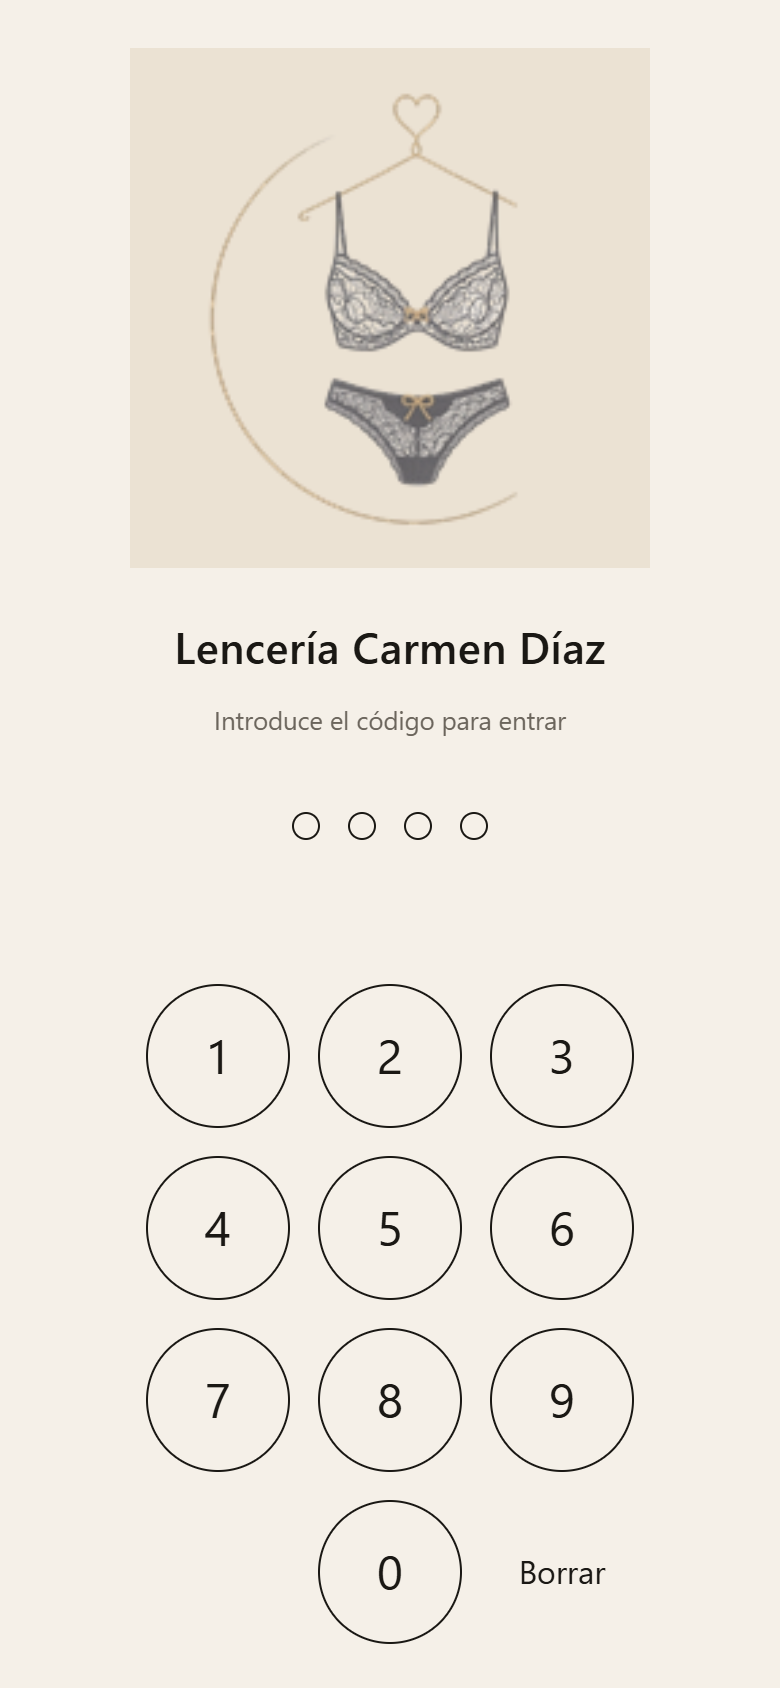
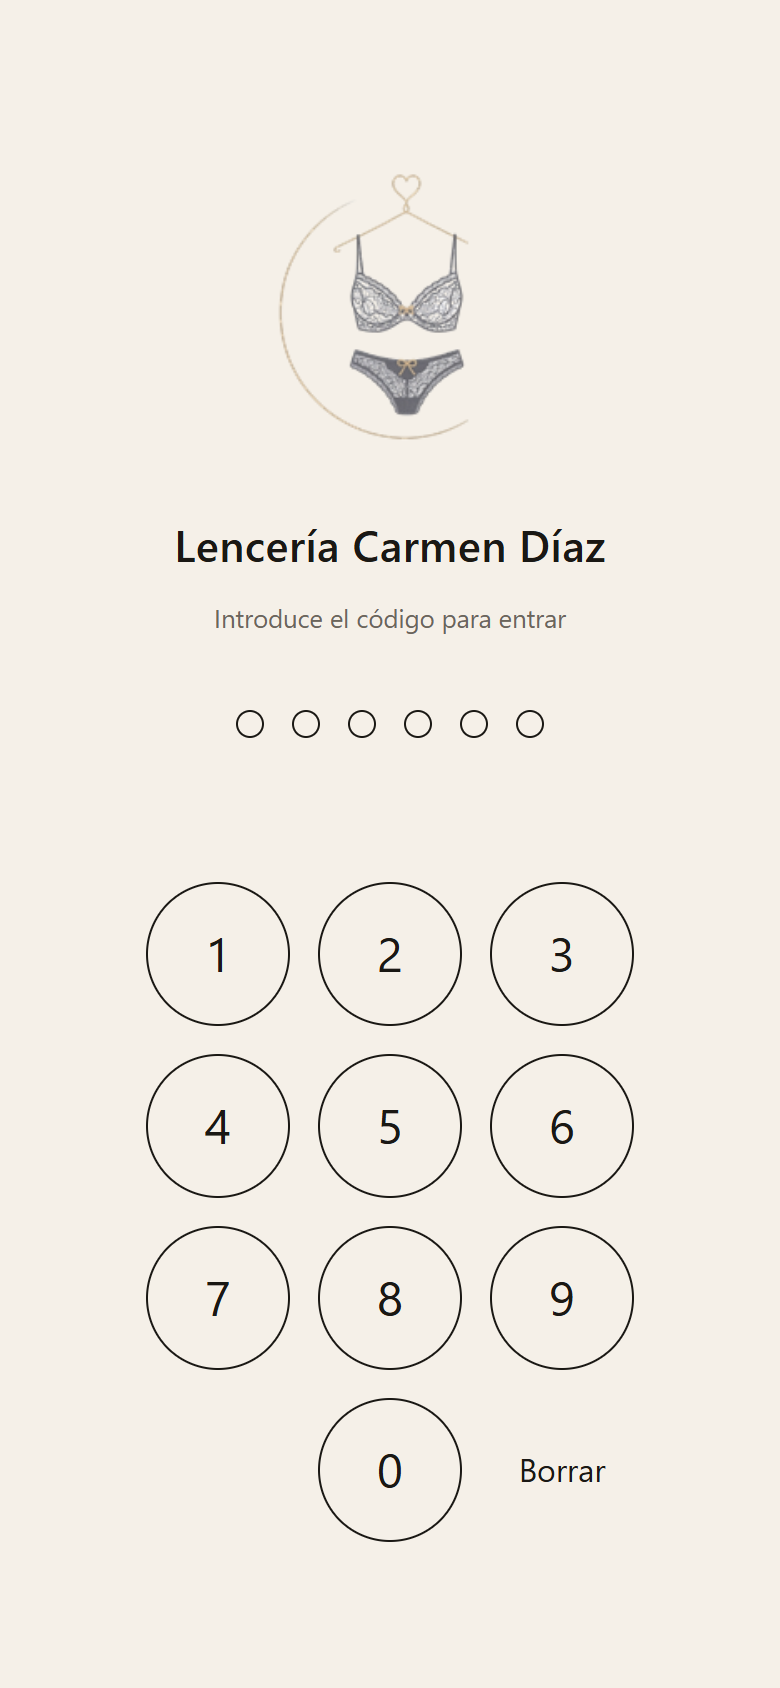
PIN de 6 cifras y arreglo del icono en la pantalla de acceso

diff --git a/scripts/screenshots.js b/scripts/screenshots.js
@@ -3,7 +3,7 @@
 // en docs/capturas/ y la etiqueta a tamaño real en docs/capturas/etiqueta-*.png.
 //
 // Uso: node scripts/serve.js   (en otra terminal)
-//      node scripts/screenshots.js [ruta-al-navegador]
+//      PIN=xxxxxx node scripts/screenshots.js [ruta-al-navegador]
 import { spawn } from 'node:child_process';
 import { mkdir, writeFile, rm } from 'node:fs/promises';
 import { tmpdir } from 'node:os';
@@ -12,7 +12,11 @@ import { fileURLToPath } from 'node:url';
 
 const BROWSER = process.argv[2] ?? 'C:/Program Files (x86)/Microsoft/Edge/Application/msedge.exe';
 const APP = 'http://localhost:8080/';
-const PIN = process.env.PIN ?? '1234';
+const PIN = process.env.PIN;
+if (!PIN) {
+  console.error('Indica el PIN: PIN=xxxxxx node scripts/screenshots.js');
+  process.exit(1);
+}
 const OUT = fileURLToPath(new URL('../docs/capturas/', import.meta.url));
 const PORT = 9333;
 const wait = (ms) => new Promise((r) => setTimeout(r, ms));
@@ -102,7 +106,8 @@ try {
   await viewport(390, 844, true);
   await go(APP);
   await shot('01-pin', false);
-  for (const d of '0000') await js(`document.querySelector('[data-n="${d}"]').click()`);
+  const wrongPin = (PIN === '0'.repeat(PIN.length) ? '1' : '0').repeat(PIN.length);
+  for (const d of wrongPin) await js(`document.querySelector('[data-n="${d}"]').click()`);
   await wait(500);
   check((await text('.pin-error')).includes('incorrecto'), 'PIN incorrecto rechazado');
   for (const d of PIN) await js(`document.querySelector('[data-n="${d}"]').click()`);

diff --git a/app/js/config.js b/app/js/config.js
@@ -1,11 +1,11 @@
 // Configuración general de la app.
 
 // Hash del PIN de acceso (nunca el PIN en claro).
-// Para cambiarlo: node scripts/pin-hash.js 1234  y pega aquí el resultado.
+// Para cambiarlo: node scripts/pin-hash.js 123456  y pega aquí el resultado.
 // Ojo: el código de la app es público, así que el PIN solo evita entradas por
 // casualidad. No protege datos; cuando haya datos (Supabase) irán con login real.
[1 lines of base64/hex data omitted]
-export const PIN_LENGTH = 4;
[1 lines of base64/hex data omitted]
+export const PIN_LENGTH = 6;
 
 // Días que un dispositivo recuerda el PIN.
 export const PIN_REMEMBER_DAYS = 30;

diff --git a/app/css/base.css b/app/css/base.css
@@ -154,7 +154,7 @@ h2 { font-size: 1.05rem; }
   padding: 24px var(--gutter);
   text-align: center;
 }
-.pin img { width: min(260px, 70vw); height: auto; mix-blend-mode: multiply; }
+.pin img { width: min(160px, 45vw); height: auto; border-radius: 24px; }
 .pin-puntos { display: flex; gap: 14px; height: 18px; }
 .pin-puntos span { width: 14px; height: 14px; border-radius: 50%; border: 1.5px solid var(--texto); }
 .pin-puntos span.lleno { background: var(--texto); }

diff --git a/scripts/pin-hash.js b/scripts/pin-hash.js
@@ -3,8 +3,8 @@
 import { createHash } from 'node:crypto';
 
 const pin = process.argv[2] ?? '';
-if (!/^\d{4}$/.test(pin)) {
-  console.error('Escribe un PIN de 4 cifras: node scripts/pin-hash.js 1234');
+if (!/^\d{4,8}$/.test(pin)) {
+  console.error('Escribe un PIN de 4 a 8 cifras: node scripts/pin-hash.js 1234');
   process.exit(1);
 }
 console.log(createHash('sha256').update(`carmen-diaz:${pin}`).digest('hex'));

diff --git a/README.md b/README.md
@@ -17,7 +17,7 @@ Herramientas:
 
 ## 2. Entrar
 
-Escribe el **código de 4 cifras**. El móvil lo recuerda durante 30 días. Para cerrar antes, pulsa **Salir** en la pantalla de inicio.
+Escribe el **código de 6 cifras**. El móvil lo recuerda durante 30 días. Para cerrar antes, pulsa **Salir** en la pantalla de inicio.
 
 <img src="docs/capturas/01-pin.png" alt="Pantalla de código" width="260"> <img src="docs/capturas/02-inicio.png" alt="Inicio" width="260">
 
@@ -109,8 +109,8 @@ Se quitan tildes y espacios. Los SKU antiguos (`SUJ-SEL-BLA-90C-BLA`) siguen val
 - Sin dependencias ni build: HTML, CSS y JavaScript que GitHub Pages sirve tal cual.
 - `node scripts/serve.js` → http://localhost:8080 para probar en local.
 - `npm test` → tests del Code 128 y del SKU.
-- `node scripts/screenshots.js` (con el servidor arrancado) → prueba de extremo a extremo en Edge sin ventana y capturas en `docs/capturas/`.
-- Cambiar el PIN: `node scripts/pin-hash.js 1234` y pega el resultado en [`app/js/config.js`](app/js/config.js).
+- `PIN=xxxxxx node scripts/screenshots.js` (con el servidor arrancado) → prueba de extremo a extremo en Edge sin ventana y capturas en `docs/capturas/`.
+- Cambiar el PIN: `node scripts/pin-hash.js 123456` y pega el resultado en [`app/js/config.js`](app/js/config.js).
 - Regenerar logo e iconos: `powershell -File scripts/build-assets.ps1 -Logo "ruta\Logo Tienda.png"`.
 - Añadir una herramienta: ver [`app/js/tools.js`](app/js/tools.js).
 - Decisiones de diseño: [`docs/decisiones.md`](docs/decisiones.md).
